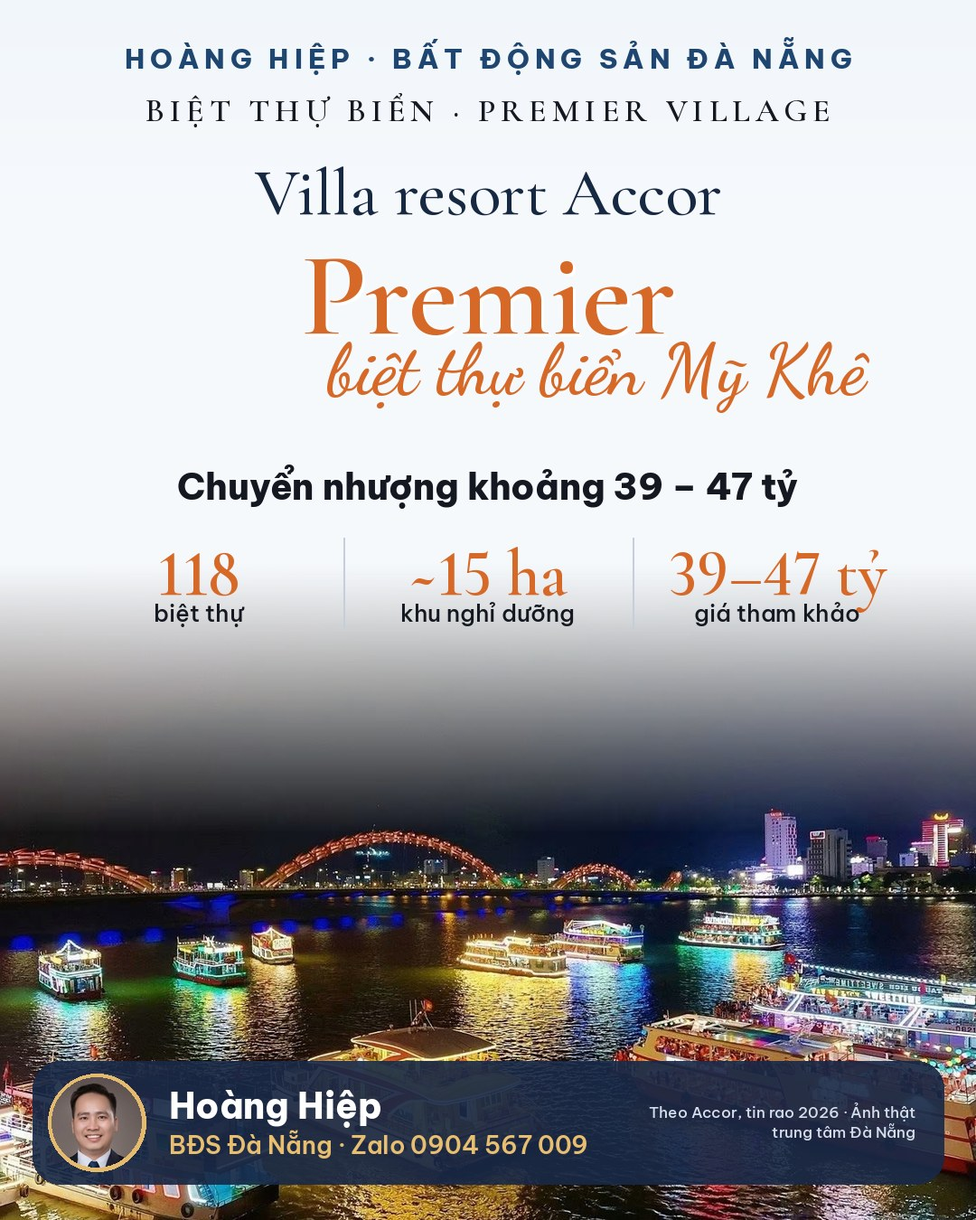
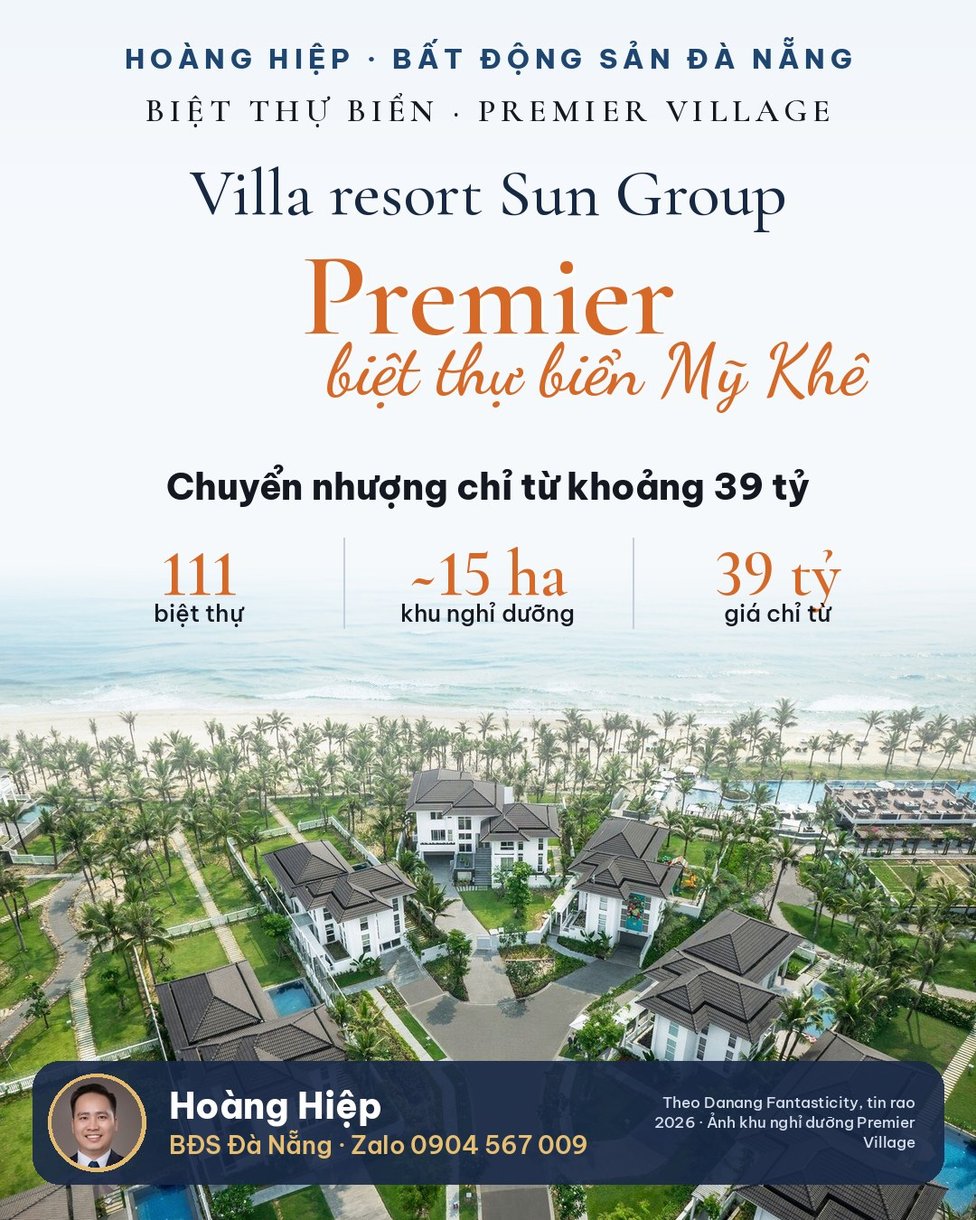
Premier Village: bỏ Accor vận hành, viết lại bài mua biệt thự (2.20.357)
Claude-Session: https://claude.ai/code/session_011HGb6VAzLiwbq5KWLxGuh9

diff --git a/wordpress/wp-content/mu-plugins/hh-crm/data-bai-viet-day-seo-casamia-euro-premier.php b/wordpress/wp-content/mu-plugins/hh-crm/data-bai-viet-day-seo-casamia-euro-premier.php
@@ -352,81 +352,117 @@ HTML
 	/* ---------------- 5. Premier Village – Mua biệt thự ---------------- */
 	$posts[] = array(
 		'slug'     => 'mua-biet-thu-premier-village-my-khe',
-		'title'    => 'Mua biệt thự Premier Village Đà Nẵng 2026: 118 căn trên biển Mỹ Khê, giá chuyển nhượng khoảng 39 – 47 tỷ',
-		'excerpt'  => 'Mua biệt thự Premier Village Đà Nẵng: 118 biệt thự trên khoảng 15 ha bên biển Mỹ Khê, Accor vận hành, giá chuyển nhượng tham khảo khoảng 39 – 47 tỷ trở lên. Loại biệt thự, pháp lý và điều cần kiểm tra.',
+		'title'    => 'Mua biệt thự Premier Village Đà Nẵng 2026: 111 căn trên biển Mỹ Khê, giá chuyển nhượng chỉ từ khoảng 39 tỷ',
+		'excerpt'  => 'Mua biệt thự Premier Village Đà Nẵng: 111 biệt thự có hồ bơi riêng trên khoảng 15 ha bên biển Mỹ Khê của Sun Group, giá chuyển nhượng tham khảo chỉ từ khoảng 39 tỷ. Loại biệt thự, ai nên mua, pháp lý và các bước mua.',
 		'keyword'  => 'mua biệt thự Premier Village',
 		'keywords_extra' => array( 'biệt thự Premier Village Đà Nẵng', 'villa Premier Village Mỹ Khê', 'biệt thự biển Mỹ Khê' ),
 		'project'  => 'premier-village-da-nang',
+		'rev'      => 2, // 26/11: viết lại – giá "chỉ từ", thêm ai nên mua, các bước mua (anh Hiệp).
 		'schedule' => '2026-11-26 09:30',
 		'category' => 'Tin dự án',
 		'tags'     => array( 'Premier Village', 'Biệt thự biển', 'Mỹ Khê' ),
-		'image'    => 'plugin:img/nha-dat/biet-thu-premier-village-vo-nguyen-giap-300m2.jpg',
-		'image_alt' => 'Mua biệt thự Premier Village – căn 300 m² mặt tiền Võ Nguyên Giáp, sát biển Mỹ Khê',
+		'image'    => 'plugin:img/premier-village/premier-village-toan-canh-bien-my-khe.jpg',
+		'image_replace' => true,
+		'image_alt' => 'Mua biệt thự Premier Village – toàn cảnh khu biệt thự bên bãi biển Mỹ Khê, Đà Nẵng',
 		'content'  => <<<'HTML'
-<p><strong>Mua biệt thự Premier Village</strong> là lựa chọn của nhóm khách muốn sở hữu một căn villa ngay trên bãi biển Mỹ Khê, gần trung tâm Đà Nẵng, trong khu nghỉ dưỡng đã vận hành nhiều năm. Premier Village do Sun Group phát triển, đã bán hết từ chủ đầu tư, nên nguồn hàng hiện nay là chuyển nhượng với giá tham khảo khoảng 39 – 47 tỷ trở lên. Bài viết tổng hợp những gì cần biết trước khi xuống tiền.</p>
+<div class="hh-answer">
+<p><strong>Mua biệt thự Premier Village</strong> năm 2026 chỉ còn nguồn chuyển nhượng: 111 căn trong khu nghỉ dưỡng do Sun Group phát triển trên bãi biển Mỹ Khê đã bán hết từ chủ đầu tư. Giá chào tham khảo chỉ từ khoảng 39 tỷ cho căn đất 300 m², căn lớn gần biển hơn từ khoảng 47 tỷ.</p>
+</div>
 <!--hh-featured-->
 <h2>Premier Village Đà Nẵng là khu biệt thự nào?</h2>
-<p>Premier Village Danang Resort là quần thể 118 biệt thự ven biển trên khu đất khoảng 15 ha, tại số 99 Võ Nguyên Giáp (khu Mỹ An cũ), giao với đường Hồ Xuân Hương. Khu nghỉ dưỡng mang tên "Premier Village Danang Resort – Managed by Accor", tức do tập đoàn Accor quản lý vận hành.</p>
+<p>Premier Village Danang Resort là quần thể 111 biệt thự ven biển trên khu đất khoảng 15 ha tại 99 Võ Nguyên Giáp (khu Mỹ An cũ), giao đường Hồ Xuân Hương, nhìn thẳng ra biển Mỹ Khê. Khu nghỉ dưỡng do Sun Group phát triển, đi vào hoạt động từ năm 2016 và từng được World Travel Awards vinh danh là khu nghỉ dưỡng biệt thự dành cho gia đình hàng đầu thế giới năm 2019.</p>
 <table>
 <thead><tr><th>Hạng mục</th><th>Thông tin</th></tr></thead>
 <tbody>
-<tr><td>Chủ đầu tư</td><td>Tập đoàn Sun Group</td></tr>
-<tr><td>Đơn vị vận hành</td><td>Accor</td></tr>
+<tr><td>Chủ đầu tư</td><td>Công ty CP Địa Cầu – thành viên Tập đoàn Sun Group</td></tr>
+<tr><td>Vận hành</td><td>Khu nghỉ dưỡng 5 sao đang hoạt động – đơn vị vận hành hiện tại cần kiểm tra theo hợp đồng từng căn</td></tr>
 <tr><td>Vị trí</td><td>99 Võ Nguyên Giáp, giao Hồ Xuân Hương, bãi biển Mỹ Khê, Đà Nẵng</td></tr>
-<tr><td>Quy mô</td><td>Khoảng 15 ha, 118 biệt thự</td></tr>
-<tr><td>Tình trạng</td><td>Đã bàn giao, đã bán hết từ chủ đầu tư – giao dịch chuyển nhượng</td></tr>
-<tr><td>Giá chuyển nhượng</td><td>Khoảng 39 – 47 tỷ trở lên (tham khảo)</td></tr>
+<tr><td>Quy mô</td><td>Khoảng 15 ha, 111 biệt thự: 77 hướng vườn, 28 có lối ra biển, 6 trực diện biển</td></tr>
+<tr><td>Tình trạng</td><td>Đã bàn giao, đã bán hết từ chủ đầu tư – chỉ còn chuyển nhượng</td></tr>
+<tr><td>Giá chuyển nhượng</td><td>Chỉ từ khoảng 39 tỷ (tin rao 2026, tham khảo)</td></tr>
 </tbody>
 </table>
-<h2>Các loại biệt thự trong khu</h2>
-<p>Trước khi mua biệt thự Premier Village, cần phân biệt các loại căn. Theo các trang giới thiệu khu nghỉ dưỡng, biệt thự chia ba nhóm: hướng vườn, có lối ra biển và trực diện biển. Biệt thự hướng vườn có diện tích khoảng 300 – 330 m², căn có lối ra biển khoảng 390 m², căn trực diện biển lớn hơn tùy vị trí. Biệt thự được thiết kế khoảng 4 phòng ngủ có phòng tắm riêng, hồ bơi riêng; một số căn đã được chủ sở hữu cải tạo nên công năng thực tế cần xem tận nơi.</p>
+<h2>Mua biệt thự Premier Village: các loại căn</h2>
+<table>
+<thead><tr><th>Loại biệt thự</th><th>Số căn</th><th>Diện tích</th><th>Điểm riêng</th></tr></thead>
+<tbody>
+<tr><td>Hướng vườn</td><td>77</td><td>Khoảng 300 – 330 m²</td><td>Vườn riêng, hồ bơi riêng</td></tr>
+<tr><td>Có lối đi ra biển</td><td>28</td><td>Khoảng 360 – 390 m²</td><td>Lối đi riêng ra bãi biển</td></tr>
+<tr><td>Trực diện biển</td><td>6</td><td>Đến khoảng 511 m²</td><td>Sát bãi biển, sân thượng cạnh hồ bơi</td></tr>
+</tbody>
+</table>
+<p>Theo thông tin giới thiệu khu nghỉ dưỡng, mỗi biệt thự có hồ bơi riêng, phòng khách, bếp đầy đủ thiết bị (tủ lạnh, lò vi sóng, lò nướng), phòng ngủ có phòng tắm riêng và đón được tối đa khoảng 8 người lớn, 4 trẻ em – hợp với đại gia đình. Vì vậy người mua biệt thự Premier Village thường là gia đình đông người hoặc doanh nghiệp cần nơi tiếp khách.</p>
+<!--hh-img:img/premier-village/premier-village-biet-thu-huong-vuon.jpg|Mua biệt thự Premier Village loại hướng vườn: vườn riêng, hồ bơi riêng (ảnh khu nghỉ dưỡng)-->
+<p>Một số chủ đã cải tạo, nâng số phòng ngủ hoặc thay nội thất, nên khi mua biệt thự Premier Village cần xem tận nơi thay vì chỉ dựa vào bản vẽ cũ. Căn càng gần biển thì giá càng cao và càng hiếm người bán – nhóm trực diện biển chỉ có 6 căn.</p>
+<h2>Tiện ích chung khi mua biệt thự Premier Village</h2>
+<ul>
+<li>Hồ bơi Nautica khoảng 550 m² sát biển và hồ bơi trẻ em khoảng 200 m².</li>
+<li>Câu lạc bộ trẻ em với lớp học, thư viện, sân chơi trong nhà và ngoài trời.</li>
+<li>Phòng gym mở cửa 24/7, hoạt động thể thao bãi biển.</li>
+<li>Nhà hàng LemonGrass, Cá Chuồn Cồ và phòng hội nghị khoảng 720 m² cho tối đa 150 khách.</li>
+</ul>
+<!--hh-img:img/premier-village/premier-village-ho-boi-nautica-ven-bien.jpg|Hồ bơi Nautica sát biển – tiện ích khi mua biệt thự Premier Village (ảnh khu nghỉ dưỡng)-->
 <h2>Giá khi mua biệt thự Premier Village năm 2026</h2>
 <table>
 <thead><tr><th>Nhóm căn</th><th>Diện tích đất</th><th>Giá chào tham khảo</th></tr></thead>
 <tbody>
-<tr><td>Biệt thự 300 m², mặt tiền Võ Nguyên Giáp</td><td>300 m² (15 × 20 m)</td><td>Khoảng 39 – 42 tỷ (khoảng 130 – 140 triệu/m² đất)</td></tr>
-<tr><td>Biệt thự lớn, gần biển hơn</td><td>Từ khoảng 390 m²</td><td>Từ khoảng 47 tỷ trở lên</td></tr>
+<tr><td>Biệt thự mặt tiền Võ Nguyên Giáp</td><td>300 m² (15 × 20 m)</td><td>Chỉ từ khoảng 39 tỷ</td></tr>
+<tr><td>Biệt thự lớn, gần biển hơn</td><td>Từ khoảng 390 m²</td><td>Từ khoảng 47 tỷ</td></tr>
 </tbody>
 </table>
-<p>Hiện Hiệp đang nhận một căn 300 m², 3 tầng, 5 phòng ngủ, hướng Đông, chào 42 tỷ có thương lượng – chi tiết tại tin <a href="/nha-dat/ban-biet-thu-premier-village-vo-nguyen-giap-my-an-300m2-sat-bien/">bán biệt thự Premier Village 300 m²</a>. Giá trong bảng là giá rao, chưa phải giá giao dịch; khi mua biệt thự Premier Village, mức chốt cuối cùng tùy hiện trạng nhà, nội thất và hợp đồng vận hành đi kèm.</p>
-<!--hh-img:img/nha-dat/biet-thu-premier-village-vo-nguyen-giap-300m2.jpg|Mua biệt thự Premier Village: căn 300 m², 3 tầng, 5 phòng ngủ sát biển Mỹ Khê đang chào 42 tỷ-->
+<p>Đây là giá rao, chưa phải giá giao dịch. Mức chốt khi mua biệt thự Premier Village tùy hiện trạng nhà, nội thất, thời hạn ghi trên sổ và căn có đang nằm trong chương trình cho thuê của khu nghỉ dưỡng hay không. Hiệp đang nhận một căn 300 m², 3 tầng, hướng Đông, mặt tiền Võ Nguyên Giáp – xem tin <a href="/nha-dat/ban-biet-thu-premier-village-vo-nguyen-giap-my-an-300m2-sat-bien/">bán biệt thự Premier Village 300 m²</a>.</p>
+<!--hh-img:img/premier-village/premier-village-flycam-biet-thu-ven-bien.jpg|Mua biệt thự Premier Village: các căn giữa rừng dừa ven biển Mỹ Khê nhìn từ trên cao (ảnh khu nghỉ dưỡng)-->
+<h2>Ai nên mua biệt thự Premier Village?</h2>
+<ul>
+<li><strong>Gia đình cần nơi nghỉ dưỡng gần trung tâm:</strong> ra biển vài bước, vào trung tâm thành phố chỉ vài phút, không phải đi xa như các khu villa phía nam.</li>
+<li><strong>Người giữ tài sản dài hạn:</strong> quỹ căn chỉ 111, không còn hàng mới nên nguồn cung khó tăng.</li>
+<li><strong>Doanh nghiệp tiếp khách:</strong> khu đã vận hành, có dịch vụ khách sạn đi kèm.</li>
+</ul>
+<p>Ngược lại, khách tìm lợi suất cho thuê cao nên tính kỹ: villa lớn có chi phí giữ nhà đáng kể (quản lý, bảo trì hồ bơi, sân vườn, điện nước, nội thất), và tỷ suất thuê trên giá vài chục tỷ thường không cao bằng căn hộ.</p>
 <h2>Pháp lý cần kiểm tra trước khi mua biệt thự Premier Village</h2>
-<p>Khi mở bán, chủ đầu tư công bố sẽ bàn giao giấy chứng nhận quyền sử dụng đất và biệt thự cho khách sau khi hoàn tất thủ tục; các trang giới thiệu nêu biệt thự có sổ hồng sở hữu lâu dài. Dù vậy, với tài sản vài chục tỷ, Hiệp luôn đề nghị khách:</p>
+<p>Khi mở bán, chủ đầu tư công bố sẽ cấp giấy chứng nhận cho khách sau khi hoàn tất thủ tục; các trang giới thiệu nêu biệt thự có sổ hồng sở hữu lâu dài. Dù vậy, với tài sản vài chục tỷ, Hiệp luôn đề nghị khách:</p>
 <ul>
 <li>Xem bản gốc sổ, đối chiếu thông tin thửa đất tại văn phòng đăng ký đất đai.</li>
-<li>Kiểm tra mục đích sử dụng đất và thời hạn ghi trên sổ.</li>
-<li>Hỏi căn đang trong chương trình cho thuê của khu nghỉ dưỡng hay không, hợp đồng còn bao lâu, điều khoản chấm dứt.</li>
+<li>Kiểm tra mục đích sử dụng đất và thời hạn ghi trên sổ của đúng căn định mua.</li>
+<li>Hỏi căn có đang trong chương trình cho thuê của khu nghỉ dưỡng không, hợp đồng còn bao lâu, điều khoản chấm dứt và phân chia doanh thu.</li>
 <li>Kiểm tra tình trạng thế chấp, tranh chấp trước khi đặt cọc.</li>
 </ul>
-<p>Các bước này áp dụng cho mọi giao dịch mua biệt thự Premier Village. Quy trình kiểm tra chi tiết xem bài <a href="/kiem-tra-phap-ly-quy-hoach-nha-dat-da-nang/">kiểm tra pháp lý, quy hoạch nhà đất Đà Nẵng</a>.</p>
-<h2>Vị trí – lợi thế lớn nhất của Premier Village</h2>
-<p>Lý do chính khách chọn mua biệt thự Premier Village là vị trí. Từ khu biệt thự đến cầu Rồng và trung tâm thành phố khoảng 5 phút, sân bay quốc tế Đà Nẵng khoảng 15 phút, bán đảo Sơn Trà khoảng 20 phút và phố cổ Hội An khoảng 40 phút đi xe. Xung quanh là phố du lịch An Thượng, chợ đêm Sơn Trà; gần đó có dự án căn hộ <a href="/du-an/the-poet-residence-da-nang/">The Poet Residence</a> trên đường Hồ Xuân Hương. Thông tin giới thiệu khu nghỉ dưỡng có trên <a href="https://danangfantasticity.com/premier-village-danang-resort/" target="_blank" rel="noopener">Danang Fantasticity</a> – cổng du lịch của thành phố.</p>
+<p>Quy trình kiểm tra chi tiết xem bài <a href="/kiem-tra-phap-ly-quy-hoach-nha-dat-da-nang/">kiểm tra pháp lý, quy hoạch nhà đất Đà Nẵng</a>.</p>
+<h2>Các bước mua biệt thự Premier Village chuyển nhượng</h2>
+<ol>
+<li>Chọn nhóm căn theo nhu cầu (hướng vườn, lối ra biển, trực diện biển) và ngân sách.</li>
+<li>Xem nhà thực tế, kiểm tra hiện trạng, nội thất, hồ bơi.</li>
+<li>Kiểm tra sổ, thế chấp, hợp đồng cho thuê đi kèm như mục trên.</li>
+<li>Đặt cọc qua văn bản rõ điều kiện hoàn cọc, sau đó công chứng hợp đồng chuyển nhượng.</li>
+<li>Nộp thuế, phí và làm thủ tục sang tên tại cơ quan đăng ký đất đai.</li>
+</ol>
+<h2>Vị trí – lợi thế lớn nhất</h2>
+<p>Lý do chính khách chọn mua biệt thự Premier Village là vị trí: từ khu biệt thự đến cầu Rồng và trung tâm thành phố khoảng 5 phút, sân bay quốc tế Đà Nẵng khoảng 15 phút, bán đảo Sơn Trà khoảng 20 phút, phố cổ Hội An khoảng 40 phút đi xe. Xung quanh là phố du lịch An Thượng và dải biển Mỹ Khê; gần đó có dự án căn hộ <a href="/du-an/the-poet-residence-da-nang/">The Poet Residence</a> trên đường Hồ Xuân Hương. Thông tin giới thiệu khu nghỉ dưỡng có trên <a href="https://danangfantasticity.com/premier-village-danang-resort/" target="_blank" rel="noopener">Danang Fantasticity</a> – cổng du lịch của thành phố.</p>
 <h2>So với villa ven biển khác ở Đà Nẵng</h2>
-<p>Theo mặt bằng giá tham khảo tháng 10/2026, Furama Villas khoảng 21 – 40 tỷ, Fusion Resort &amp; Villas khoảng 32 – 54 tỷ, Hyatt Regency 3 phòng ngủ khoảng 50 tỷ. Mua biệt thự Premier Village đắt hơn Furama nhưng đổi lại vị trí gần trung tâm nhất. Bảng so sánh đầy đủ xem bài <a href="/so-sanh-villa-ven-bien-da-nang-co-so/">so sánh villa ven biển Đà Nẵng có sổ</a>.</p>
+<p>Theo mặt bằng giá tham khảo tháng 10/2026, Furama Villas chỉ từ khoảng 21 tỷ, Fusion Resort &amp; Villas từ khoảng 32 tỷ, Hyatt Regency 3 phòng ngủ khoảng 50 tỷ. Mua biệt thự Premier Village đắt hơn Furama nhưng đổi lại vị trí gần trung tâm nhất. Bảng so sánh đầy đủ xem bài <a href="/so-sanh-villa-ven-bien-da-nang-co-so/">so sánh villa ven biển Đà Nẵng có sổ</a>.</p>
 <h2>Nhận định của Hoàng Hiệp</h2>
-<p>Quỹ căn Premier Village rất ít – chỉ 118 căn và không còn hàng mới – nên giao dịch thưa nhưng giá giữ tốt. Hiệp thấy việc mua biệt thự Premier Village hợp với khách cần một tài sản an toàn, gần trung tâm, dùng vừa nghỉ dưỡng gia đình vừa tiếp khách. Khách tìm lợi suất cho thuê cao nên tính kỹ chi phí vận hành villa lớn trước khi quyết định.</p>
+<p>Quỹ căn Premier Village rất ít – chỉ 111 căn và không còn hàng mới – nên giao dịch thưa nhưng giá giữ tốt. Hiệp thấy việc mua biệt thự Premier Village hợp với khách cần một tài sản an toàn, gần trung tâm, dùng vừa nghỉ dưỡng gia đình vừa tiếp khách; khách đặt nặng dòng tiền cho thuê nên so thêm với căn hộ ven biển trước khi quyết định.</p>
 <p>Cần danh sách căn đang chuyển nhượng, hỗ trợ kiểm tra sổ và hợp đồng vận hành, liên hệ <strong>Hoàng Hiệp – 0904 567 009</strong> (gọi/Zalo). Thông tin dự án xem tại trang <a href="/du-an/premier-village-da-nang/">Premier Village Đà Nẵng</a>.</p>
-<p class="src">Nguồn: Accor (Premier Village Danang Resort – Managed by Accor), Danang Fantasticity, Báo Đầu tư, mia.vn; tin rao chuyển nhượng 2026, dữ liệu Hoàng Hiệp tổng hợp. Giá mang tính tham khảo.</p>
+<p class="src">Nguồn: Danang Fantasticity, Báo Đầu tư, mia.vn, thông tin giới thiệu khu nghỉ dưỡng; tin rao chuyển nhượng 2026, dữ liệu Hoàng Hiệp tổng hợp. Ảnh: khu nghỉ dưỡng Premier Village. Giá mang tính tham khảo.</p>
 HTML
 		,
 		'seo'      => array(
-			'seo_title' => 'Mua biệt thự Premier Village 2026: 118 căn biển Mỹ Khê',
-			'desc'      => 'Mua biệt thự Premier Village Đà Nẵng: 118 căn trên 15 ha bên biển Mỹ Khê, Accor vận hành, giá chuyển nhượng khoảng 39 – 47 tỷ. Loại căn, pháp lý cần kiểm tra.',
+			'seo_title' => 'Mua biệt thự Premier Village 2026: 111 căn biển Mỹ Khê',
+			'desc'      => 'Mua biệt thự Premier Village Đà Nẵng: 111 căn trên 15 ha bên biển Mỹ Khê, Sun Group phát triển, giá chuyển nhượng chỉ từ khoảng 39 tỷ. Loại căn, pháp lý, cách mua.',
 			'points'    => array(
-				'Premier Village: 118 biệt thự trên khoảng 15 ha, 99 Võ Nguyên Giáp, Accor quản lý vận hành',
-				'Giá khi mua biệt thự Premier Village (tin rao 2026): khoảng 39 – 47 tỷ trở lên, căn 300 m² khoảng 39 – 42 tỷ',
+				'Premier Village: 111 biệt thự (77 hướng vườn, 28 lối ra biển, 6 trực diện biển) trên khoảng 15 ha, Sun Group phát triển',
+				'Giá khi mua biệt thự Premier Village (tin rao 2026): chỉ từ khoảng 39 tỷ cho căn đất 300 m², căn lớn gần biển từ khoảng 47 tỷ',
 				'Đã bán hết từ chủ đầu tư – cần kiểm tra sổ, mục đích sử dụng đất và hợp đồng cho thuê đi kèm',
 			),
 			'faq'       => array(
-				array( 'Mua biệt thự Premier Village giá bao nhiêu?', 'Theo tin rao 2026, giá chuyển nhượng khoảng 39 – 47 tỷ trở lên; căn đất 300 m² khoảng 39 – 42 tỷ.' ),
-				array( 'Premier Village có bao nhiêu biệt thự?', 'Khu nghỉ dưỡng có 118 biệt thự ven biển trên khoảng 15 ha; muốn mua biệt thự Premier Village hiện chỉ có nguồn chuyển nhượng.' ),
-				array( 'Ai vận hành Premier Village Danang Resort?', 'Khu nghỉ dưỡng mang tên Premier Village Danang Resort – Managed by Accor, do Accor quản lý vận hành.' ),
+				array( 'Mua biệt thự Premier Village giá bao nhiêu?', 'Theo tin rao 2026, giá chuyển nhượng chỉ từ khoảng 39 tỷ cho căn đất 300 m²; căn lớn gần biển hơn từ khoảng 47 tỷ.' ),
+				array( 'Premier Village có bao nhiêu biệt thự?', 'Khu nghỉ dưỡng có 111 biệt thự trên khoảng 15 ha: 77 hướng vườn, 28 có lối ra biển, 6 trực diện biển; muốn mua biệt thự Premier Village hiện chỉ có nguồn chuyển nhượng.' ),
+				array( 'Ai là chủ đầu tư Premier Village Đà Nẵng?', 'Chủ đầu tư là Công ty CP Địa Cầu, thành viên Tập đoàn Sun Group. Đơn vị vận hành và hợp đồng cho thuê của từng căn nên kiểm tra trực tiếp khi mua.' ),
 				array( 'Biệt thự Premier Village có sổ hồng không?', 'Khi mua biệt thự Premier Village, lưu ý các trang giới thiệu nêu biệt thự có sổ hồng sở hữu lâu dài; người mua nên kiểm tra bản gốc sổ, mục đích sử dụng đất và thời hạn từng căn.' ),
 			),
 		),
 		'sources'  => array(
 			'https://danangfantasticity.com/premier-village-danang-resort/',
-			'https://all.accor.com/hotel/9530/index.en.shtml',
 			'https://baodautu.vn/batdongsan/premier-village-so-do-trao-tay---loi-ngay-9nam-d30705.html',
 			'https://mia.vn/cam-nang-du-lich/premier-village-danang-resort-khu-biet-thu-gia-dinh-dang-cap-canh-bai-bien-5934',
 		),

diff --git a/wordpress/wp-content/mu-plugins/hh-crm/data-premier-village-11-2026.php b/wordpress/wp-content/mu-plugins/hh-crm/data-premier-village-11-2026.php
@@ -2,7 +2,7 @@
 /**
  * Premier Village Đà Nẵng – bổ sung thông tin khu nghỉ dưỡng (anh Hiệp gửi trang giới thiệu dự án 26/11/2026):
  * 111 biệt thự (77 hướng vườn ~300 – 330 m², 28 có lối ra biển ~360 – 390 m², 6 trực diện biển đến ~511 m²), 15 ha,
- * chủ đầu tư Công ty CP Địa Cầu (Sun Group), Accor vận hành; tiện ích; 10 ảnh chính thức của khu nghỉ dưỡng.
+ * chủ đầu tư Công ty CP Địa Cầu (Sun Group); không ghi Accor vận hành (anh Hiệp báo Accor không còn quản lý, 26/11); tiện ích; 10 ảnh chính thức của khu nghỉ dưỡng.
  * Viết lại bằng lời mình, không ghi tên / số điện thoại đơn vị phân phối. Giá chỉ ghi "chỉ từ".
  */
 
@@ -18,14 +18,13 @@ add_filter(
 			$img = static fn( $f, $cap, $role = 'thư viện' ) => "plugin:img/premier-village/$f.jpg | $cap | $role";
 			$upd = array(
 				'hh_p_developer'    => 'Công ty CP Địa Cầu – thành viên Tập đoàn Sun Group',
-				'hh_p_operator'     => 'Accor (Premier Village Danang Resort – Managed by Accor)',
 				'hh_p_address'      => '99 Võ Nguyên Giáp (khu Mỹ An cũ), giao Hồ Xuân Hương, bãi biển Mỹ Khê, Đà Nẵng',
 				'hh_p_scale'        => 'Khoảng 15 ha',
 				'hh_p_units'        => '111 biệt thự: 77 hướng vườn, 28 có lối đi riêng ra biển, 6 trực diện biển',
 				'hh_p_unit_area'    => 'Đất khoảng 300 – 330 m² (hướng vườn), 360 – 390 m² (lối ra biển), đến khoảng 511 m² (trực diện biển)',
 				'hh_p_resale_price' => 'Chỉ từ khoảng 39 tỷ (tin rao chuyển nhượng 2026, tham khảo)',
 				'hh_p_villa_table'  => "Biệt thự hướng vườn (77 căn) | Khoảng 300 – 330 m² | Hồ bơi riêng, vườn riêng | Chỉ từ khoảng 39 tỷ\nBiệt thự có lối ra biển (28 căn) | Khoảng 360 – 390 m² | Lối đi riêng ra biển, hồ bơi riêng | Từ khoảng 47 tỷ\nBiệt thự trực diện biển (6 căn) | Đến khoảng 511 m² | Sát bãi biển, sân thượng cạnh hồ bơi | Liên hệ",
-				'hh_p_highlights'   => "111 biệt thự trên bãi biển Mỹ Khê, mỗi căn có hồ bơi riêng\nAccor quản lý vận hành theo tiêu chuẩn khu nghỉ dưỡng 5 sao\nHồ bơi Nautica khoảng 550 m² cạnh biển, hồ trẻ em khoảng 200 m²\nCâu lạc bộ trẻ em, phòng gym 24/7, phòng hội nghị khoảng 720 m² (tối đa 150 khách)\nNhà hàng LemonGrass và Cá Chuồn Cồ ngay trong khu\nVinh danh khu nghỉ dưỡng biệt thự cho gia đình hàng đầu thế giới 2019 (World Travel Awards)",
+				'hh_p_highlights'   => "111 biệt thự trên bãi biển Mỹ Khê, mỗi căn có hồ bơi riêng\nKhu nghỉ dưỡng 5 sao đang hoạt động, biệt thự có thể tham gia chương trình cho thuê\nHồ bơi Nautica khoảng 550 m² cạnh biển, hồ trẻ em khoảng 200 m²\nCâu lạc bộ trẻ em, phòng gym 24/7, phòng hội nghị khoảng 720 m² (tối đa 150 khách)\nNhà hàng LemonGrass và Cá Chuồn Cồ ngay trong khu\nVinh danh khu nghỉ dưỡng biệt thự cho gia đình hàng đầu thế giới 2019 (World Travel Awards)",
 				'hh_p_image_links'  => implode(
 					"\n",
 					array(
@@ -42,7 +41,7 @@ add_filter(
 					)
 				),
 			);
-			$excerpt = 'Khu nghỉ dưỡng 111 biệt thự của Sun Group trên bãi biển Mỹ Khê (99 Võ Nguyên Giáp), Accor vận hành – mỗi căn có hồ bơi riêng; giao dịch chuyển nhượng, giá chỉ từ khoảng 39 tỷ.';
+			$excerpt = 'Khu nghỉ dưỡng 111 biệt thự của Sun Group trên bãi biển Mỹ Khê (99 Võ Nguyên Giáp), khu nghỉ dưỡng 5 sao đang hoạt động – mỗi căn có hồ bơi riêng; giao dịch chuyển nhượng, giá chỉ từ khoảng 39 tỷ.';
 			if ( ( $p['excerpt'] ?? '' ) !== $excerpt ) {
 				$projects[ $i ]['fix_excerpt'] = array_merge( (array) ( $p['fix_excerpt'] ?? array() ), array( (string) ( $p['excerpt'] ?? '' ) ) );
 				$projects[ $i ]['excerpt']     = $excerpt;

diff --git a/wordpress/packaging/hoang-hiep-crm.php b/wordpress/packaging/hoang-hiep-crm.php
@@ -2,7 +2,7 @@
 /**
  * Plugin Name: Hoàng Hiệp CRM
  * Description: Dự án, nhà đất mua bán / cho thuê, khách hàng tiềm năng và dữ liệu dự án Đà Nẵng cho hiephoangmt.com. Dùng kèm giao diện Hoàng Hiệp.
- * Version: 2.20.356
+ * Version: 2.20.357
  * Author: Hoàng Hiệp
  * Requires PHP: 7.4
  */
@@ -14,7 +14,7 @@ if ( defined( 'HH_CRM_VERSION' ) ) {
 	return;
 }
 
-define( 'HH_CRM_VERSION', '2.20.356' );
+define( 'HH_CRM_VERSION', '2.20.357' );
 define( 'HH_CRM_DIR', __DIR__ . '/hh-crm/' );
 define( 'HH_CRM_URL', plugin_dir_url( __FILE__ ) . 'hh-crm/' );
 

diff --git a/wordpress/wp-content/mu-plugins/hh-crm.php b/wordpress/wp-content/mu-plugins/hh-crm.php
@@ -2,7 +2,7 @@
 /**
  * Plugin Name: Hoàng Hiệp CRM
  * Description: Dự án, nhà đất mua bán / cho thuê và khách hàng tiềm năng cho hiephoangmt.com.
- * Version: 2.20.356
+ * Version: 2.20.357
  * Author: Hoàng Hiệp
  */
 
@@ -13,7 +13,7 @@ if ( defined( 'HH_CRM_VERSION' ) ) {
 	return;
 }
 
-define( 'HH_CRM_VERSION', '2.20.356' );
+define( 'HH_CRM_VERSION', '2.20.357' );
 define( 'HH_CRM_DIR', __DIR__ . '/hh-crm/' );
 define( 'HH_CRM_URL', WPMU_PLUGIN_URL . '/hh-crm/' );
 

diff --git a/wordpress/GHI-CHU-CAP-NHAT.md b/wordpress/GHI-CHU-CAP-NHAT.md
@@ -1,11 +1,15 @@
 # Gói cập nhật hiephoangmt.com – 12/10/2026
 
-**File cài:** `hoang-hiep-tron-goi.zip` (giao diện Hoàng Hiệp **2.16.47** + plugin Hoàng Hiệp CRM **2.20.356**) · cập nhật nhanh bằng điện thoại: `cap-nhat-nhanh.zip`
+**File cài:** `hoang-hiep-tron-goi.zip` (giao diện Hoàng Hiệp **2.16.47** + plugin Hoàng Hiệp CRM **2.20.357**) · cập nhật nhanh bằng điện thoại: `cap-nhat-nhanh.zip`
 **Xem trước:** https://claude.ai/artifact/ACKuFhbbb8yj5VoU8Ty9X7 (riêng tư – bấm Chia sẻ nếu muốn gửi người khác)
+
+## Có gì mới – 2.20.357
+
+- Premier Village Đà Nẵng: bỏ thông tin "Accor vận hành" (Accor không còn quản lý) trên trang dự án, bài mua biệt thự và ảnh bìa; chỉ ghi chủ đầu tư Công ty CP Địa Cầu (Sun Group).
 
 ## Có gì mới – 2.20.356
 
-- Premier Village Đà Nẵng: sửa số căn thành 111 biệt thự (77 hướng vườn, 28 lối ra biển, 6 trực diện biển), chủ đầu tư Công ty CP Địa Cầu (Sun Group), Accor vận hành, bảng loại biệt thự, tiện ích, 10 ảnh chính thức của khu nghỉ dưỡng, giá chỉ từ khoảng 39 tỷ.
+- Premier Village Đà Nẵng: sửa số căn thành 111 biệt thự (77 hướng vườn, 28 lối ra biển, 6 trực diện biển), chủ đầu tư Công ty CP Địa Cầu (Sun Group), bảng loại biệt thự, tiện ích, 10 ảnh chính thức của khu nghỉ dưỡng, giá chỉ từ khoảng 39 tỷ.
 
 ## Có gì mới – 2.20.355
 
